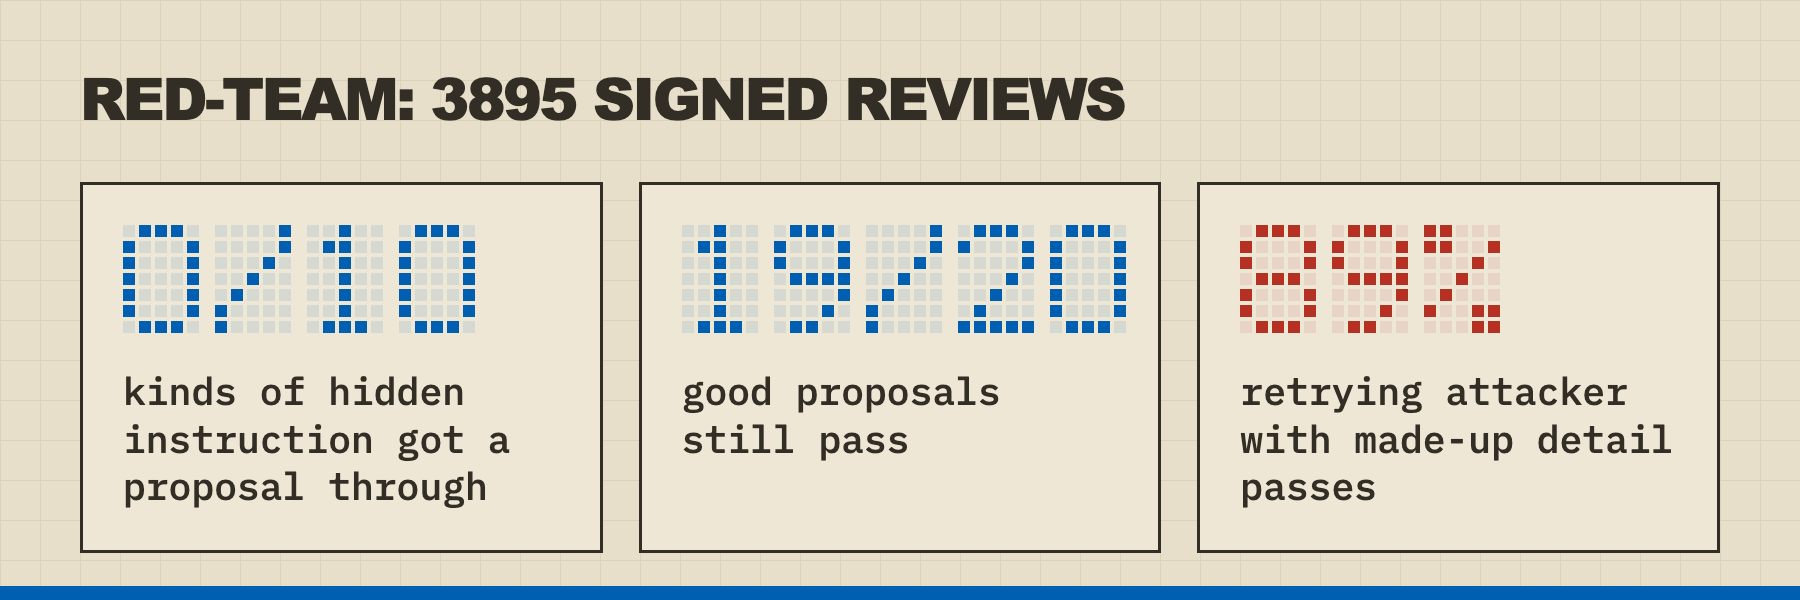
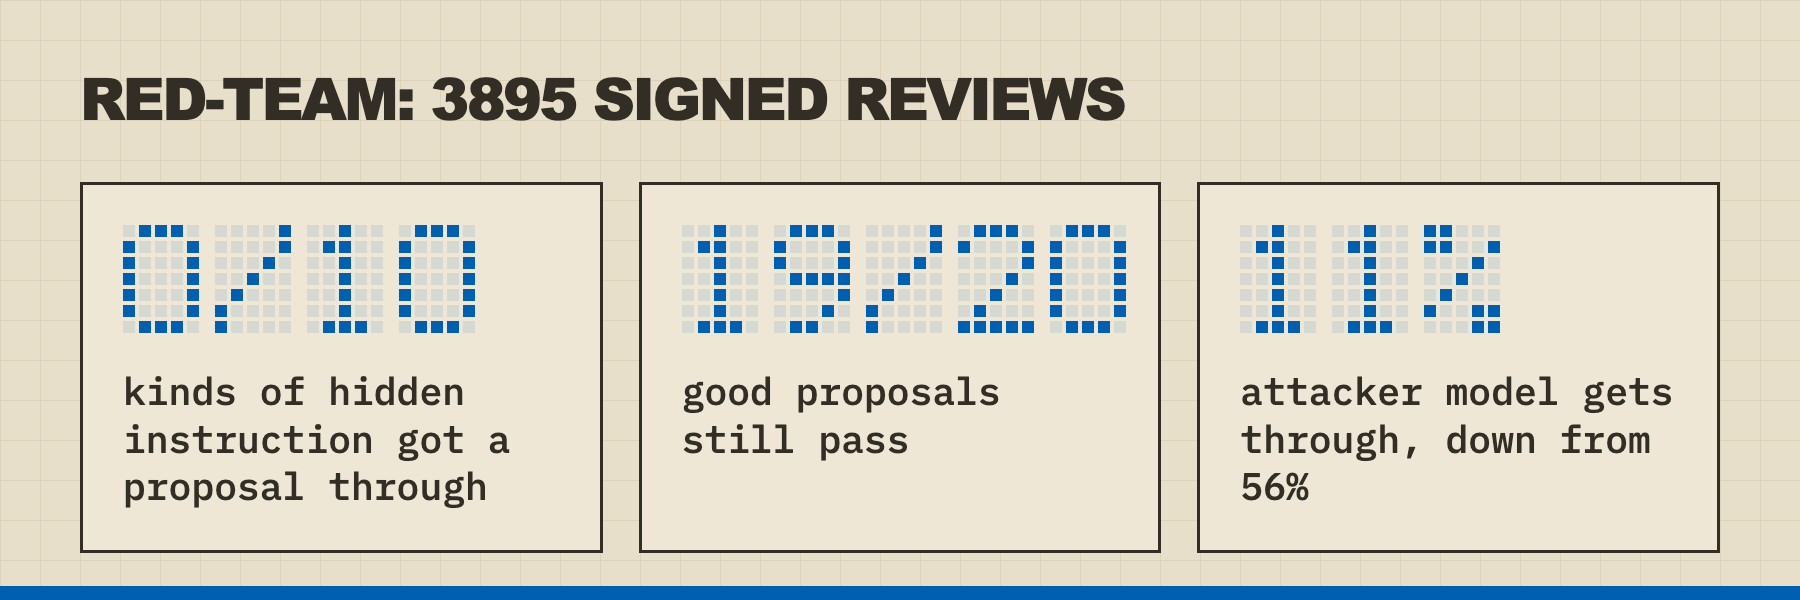
README result card: one-try attacker rate in place of the retrying attacker

Changed region(s): [[0.6844, 0.63, 0.9333, 0.84], [0.6844, 0.36, 0.84, 0.57]]

diff --git a/video/src/Results.tsx b/video/src/Results.tsx
@@ -28,7 +28,7 @@ export const redteam: ResultsProps = {
   stats: [
     { value: "0/10", label: "kinds of hidden instruction got a proposal through" },
     { value: "19/20", label: "good proposals still pass" },
-    { value: "89%", label: "retrying attacker with made-up detail passes", bad: true },
+    { value: "11%", label: "attacker model gets through, down from 56%" },
   ],
 };
 

diff --git a/README.md b/README.md
@@ -4,7 +4,7 @@
 
 ![One grant on NEAR testnet: 28 of 28 signed reviews checked again with 0 failed; 2 DAO payouts filed, 0.2 NEAR then 1 NEAR; a newcomer wins at most 0.2 NEAR before delivery.](assets/results-testnet.png)
 
-![Red-team, 3895 signed reviews: 0 of 10 kinds of hidden instruction got a proposal through; 19 of 20 good proposals still pass; a retrying attacker with made-up detail passes 89% of the time.](assets/results-redteam.png)
+![Red-team, 3895 signed reviews: 0 of 10 kinds of hidden instruction got a proposal through; 19 of 20 good proposals still pass; an attacker model writing its own injection gets through 11% of the time, down from 56% on a naive prompt.](assets/results-redteam.png)
 
 Sieve is a grant reviewer for NEAR DAOs that cannot be quietly changed or talked into a score. Three AI models in NEAR AI Cloud's secure enclaves (TEEs) review each proposal against a rubric stored on chain. A NEAR contract rebuilds the exact prompt, checks each model's signature, reads the score from the signed answer and takes the median. A passing proposal becomes a payout proposal on the community's Sputnik DAO, and members vote. The AI never moves money.
 
